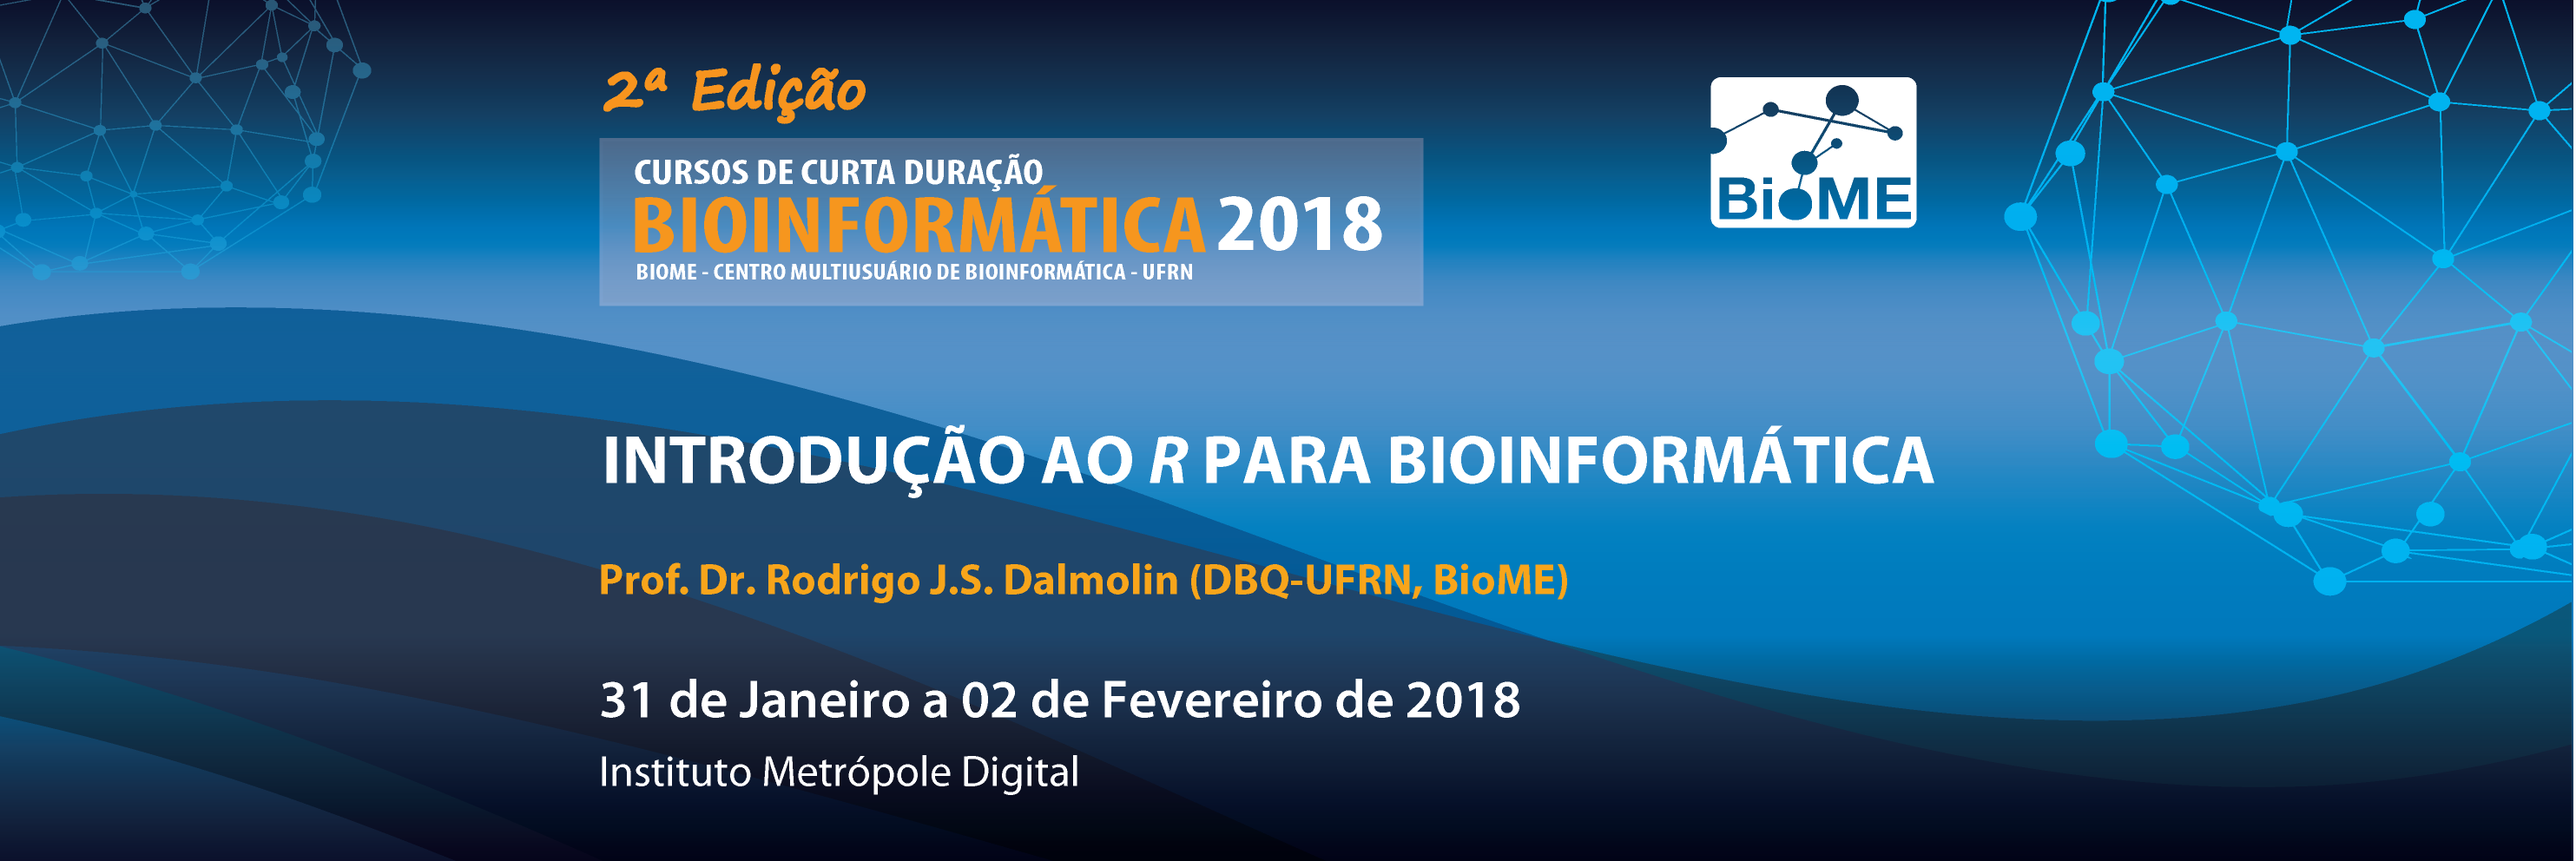
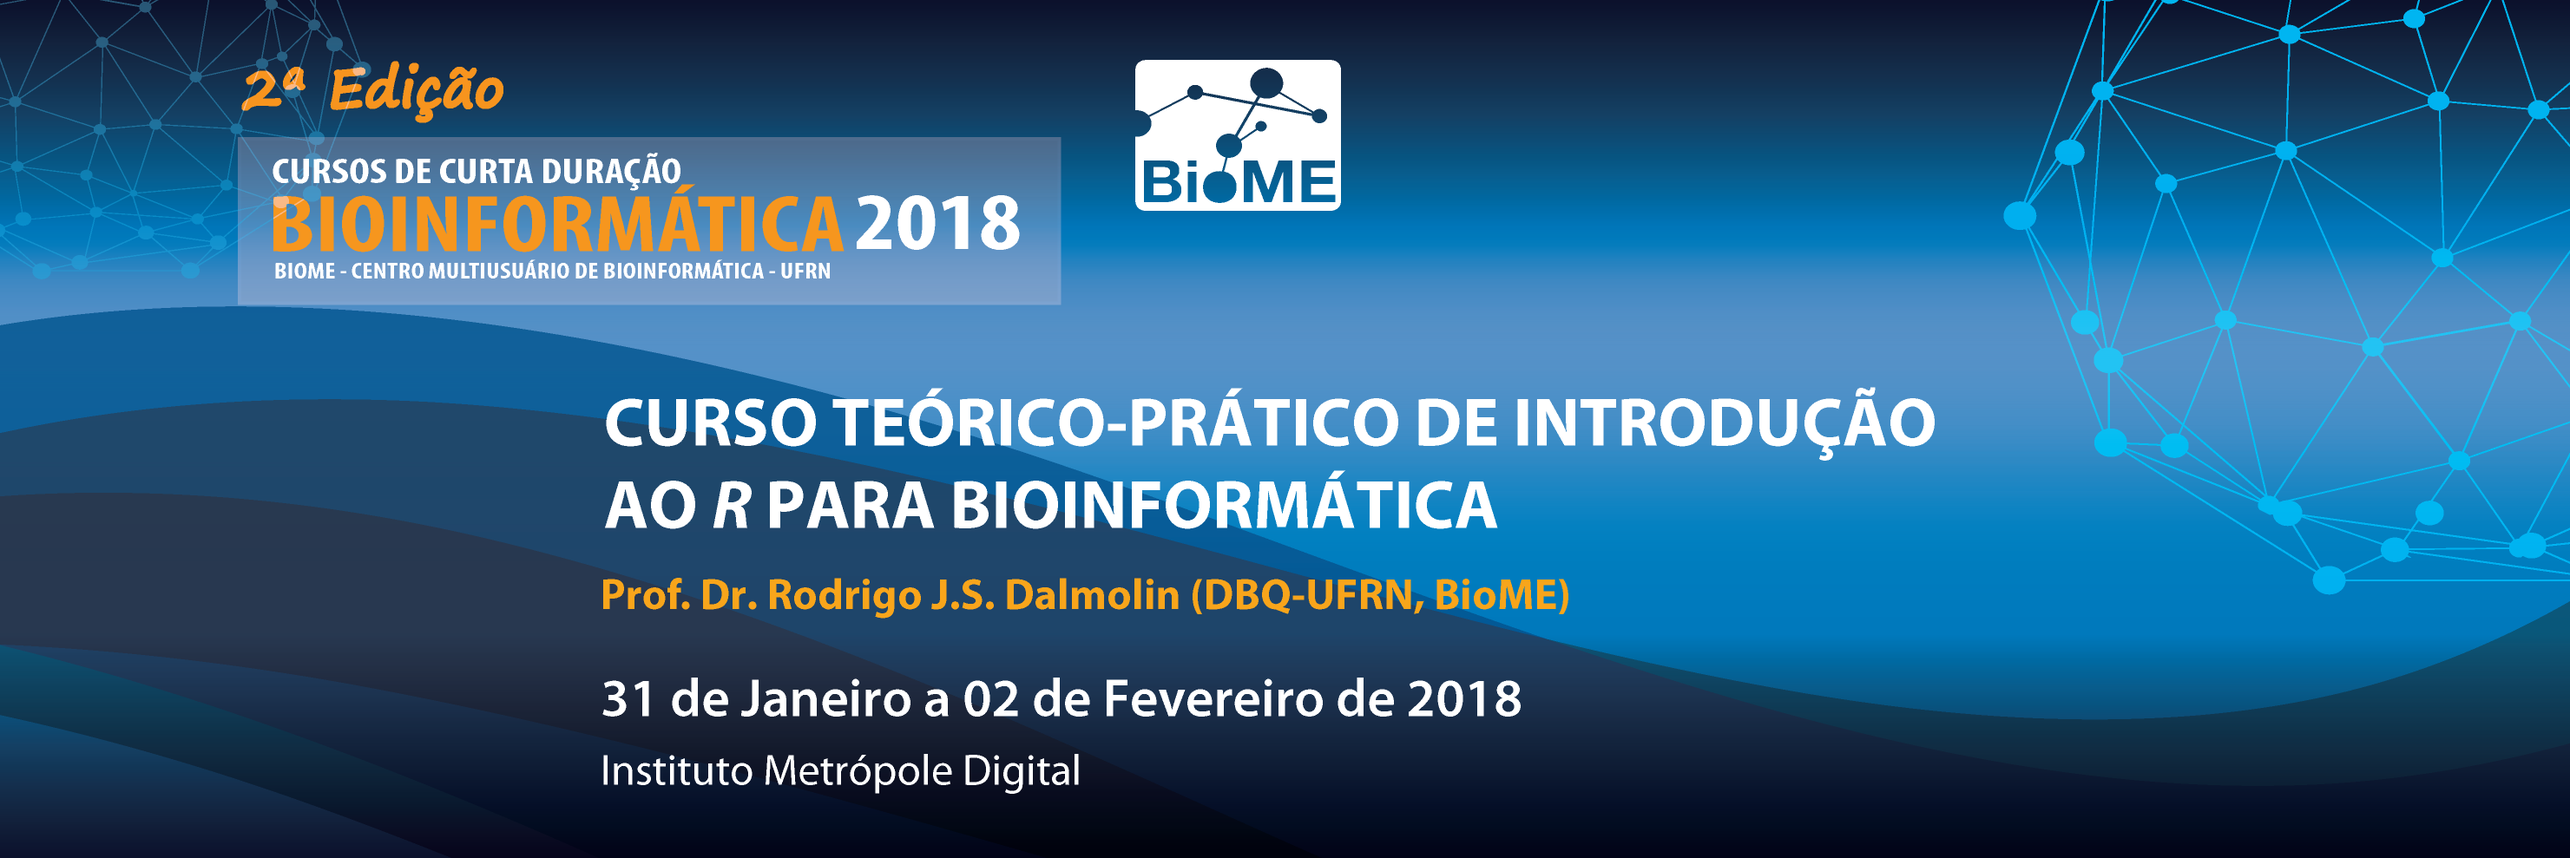
atualização dos nomes dos cursos

diff --git a/02ed/registration/index.html b/02ed/registration/index.html
@@ -45,10 +45,10 @@
             Prencha os dados requeridos abaixo e prossiga ao Pagseguro para pagamento.
             <br><br>
             Obrigada!
-        </span> 
+        </span>
     </div>
     </center>
-    
+
     <br><br><br><br>
     <div class="container col-lg-5 col-md-5 col-sm-8 col-xsm-8">
     <div id="login-container">
@@ -130,7 +130,7 @@
                 <br><br>
                 * Para obtenção do desconto de 20%, o participante deve entrar em contato e informar o código de desconto através do e-mail biome@imd.ufrn.br. Neste caso, a inscrição somente poderá ser paga através de transferência bancária para a conta corrente do Instituto de Bioinformática e Biotecnologia, cujos dados bancários serão enviados ao portador do voucher.
                 <br><br>
-                ** Participantes que receberam um voucher de 20% podem utilizá-lo para obter o desconto na inscrição de somente um dos cursos da 2a. edição dos Cursos de Curta Duração. 
+                ** Participantes que receberam um voucher de 20% podem utilizá-lo para obter o desconto na inscrição de somente um dos cursos da 2a. edição dos Cursos de Curta Duração.
                 <br><br>
                 *** Inscrições realizadas com desconto não serão contabilizadas para emissão de um novo voucher, que está condicionada ao pagamento integral do valor da inscrição de 2 ou 3 cursos da 2a. edição dos Cursos de Curta Duração. </div>
             </div>
@@ -205,19 +205,19 @@
                             <div class="form-check">
                                 <label class="form-check-label">
                                 <input id="inputBIOINFO" type="checkbox" class="form-check-input">
-                                Introdução à bioinformática
+                                Curso teórico de bioinformática básica
                                 </label>
                             </div>
                             <div class="form-check">
                                 <label class="form-check-label">
                                 <input id="inputNGS" type="checkbox" class="form-check-input">
-                                Introdução à Análise de Dados de Sequenciadores de Segunda Geração
+                                Curso teórico-prático em Introdução à análise de dados de sequenciadores de segunda geração
                                 </label>
                             </div>
                             <div class="form-check">
                                 <label class="form-check-label">
                                 <input id="inputR" type="checkbox" class="form-check-input">
-                                Introdução ao R para bioinformática
+                                Curso teórico-prático de Introdução ao R para bioinformática
                                 </label>
                             </div>
 
@@ -249,9 +249,9 @@
                         <center><br><br>
                             <div style="width: 82%; border-style: dotted; padding: 15px;">
                                 <label>Inscreva-se também nos demais cursos de curta duração oferecidos pelo BioME</label><br><br>
-                                <a style="color: #333;" href="http://bioinfo.imd.ufrn.br/cursosdcd/2018-1/bioinfo/index.html"> Introdução à bioinformática </a><br><br>
-                                <a style="color: #333;" href="http://bioinfo.imd.ufrn.br/cursosdcd/2018-1/ngs/index.html"> Introdução à Análise de Dados de Sequenciadores de Segunda Geração </a><br><br>
-                                <a style="color: #333;" href="http://bioinfo.imd.ufrn.br/cursosdcd/2018-1/r/index.html"> Introdução ao R para bioinformática </a><br><br>
+                                <a style="color: #333;" href="http://bioinfo.imd.ufrn.br/cursosdcd/2018-1/bioinfo/index.html"> Curso teórico de bioinformática básica </a><br><br>
+                                <a style="color: #333;" href="http://bioinfo.imd.ufrn.br/cursosdcd/2018-1/ngs/index.html"> Curso teórico-prático em Introdução à análise de dados de sequenciadores de segunda geração </a><br><br>
+                                <a style="color: #333;" href="http://bioinfo.imd.ufrn.br/cursosdcd/2018-1/r/index.html"> Curso teórico-prático de Introdução ao R para bioinformática </a><br><br>
                                 <p style="color: #FF6347; font-size: 17px;" >
                                     Inscritos em 2 ou 3 cursos de curta duração receberão um <br>
                                     <b>voucher de 20%</b> de desconto para ser usado em eventos futuros do BioME.
@@ -271,7 +271,7 @@
                                         <b>Nota:</b> Mesmo após realização do pagamento, seu status será atualizado em até <b>2 dias úteis</b>.
                                         </p>
                                         <!--<h4>
-                                        <b>Se você se tentou se inscrever para o 1º Curso teórico-prático em Introdução à Análise de Dados de Sequenciadores de Segunda Geração ou para o Curso Teórico-Prático de Filogenia Molecular e Análise Evolucionária de Sequências, as inscrições estão encerradas. Mas Caso deseje participar da lista de espera, enviar email para biome@imd.ufrn.br e você será notificado de sua posição por email.</b>
+                                        <b>Se você se tentou se inscrever para o 1º Curso teórico-prático em Curso teórico-prático em Introdução à análise de dados de sequenciadores de segunda geração ou para o Curso Teórico-Prático de Filogenia Molecular e Análise Evolucionária de Sequências, as inscrições estão encerradas. Mas Caso deseje participar da lista de espera, enviar email para biome@imd.ufrn.br e você será notificado de sua posição por email.</b>
                                         </h4>-->
                                 </div><br><br>
                                </center>
@@ -507,7 +507,7 @@
                     //$('#psForm #productId').val(enrollmentCourseSnapshot.val().productID);
                     $('#cart').append(
                         '<input type="hidden" name="item_id_'+itemCount+'" value="1">' +
-                        '<input type="hidden" name="item_descr_'+itemCount+'" value="2Bio: Introdução à bioinformática">' +
+                        '<input type="hidden" name="item_descr_'+itemCount+'" value="2Bio: Curso teórico de bioinformática básica">' +
                         '<input type="hidden" name="item_quant_'+itemCount+'" value="1">' +
                         '<input type="hidden" name="item_valor_'+itemCount+'" value="'+enrollmentCourseSnapshot.val().price+'">'
                     );
@@ -519,7 +519,7 @@
                     //$('#psForm #productId').val(enrollmentCourseSnapshot.val().productID);
                      $('#cart').append(
                         '<input type="hidden" name="item_id_'+itemCount+'" value="2">' +
-                        '<input type="hidden" name="item_descr_'+itemCount+'" value="2Bio: Introdução à Análise de Dados de Sequenciadores de Segunda Geração">' +
+                        '<input type="hidden" name="item_descr_'+itemCount+'" value="2Bio: Curso teórico-prático em Introdução à análise de dados de sequenciadores de segunda geração">' +
                         '<input type="hidden" name="item_quant_'+itemCount+'" value="1">' +
                         '<input type="hidden" name="item_valor_'+itemCount+'" value="'+enrollmentCourseSnapshot.val().price+'">'
                     );
@@ -531,7 +531,7 @@
                     //$('#psForm #productId').val(enrollmentCourseSnapshot.val().productID);
                      $('#cart').append(
                         '<input type="hidden" name="item_id_'+itemCount+'" value="3">' +
-                        '<input type="hidden" name="item_descr_'+itemCount+'" value="2Bio: Introdução ao R para bioinformática">' +
+                        '<input type="hidden" name="item_descr_'+itemCount+'" value="2Bio: Curso teórico-prático de Introdução ao R para bioinformática">' +
                         '<input type="hidden" name="item_quant_'+itemCount+'" value="1">' +
                         '<input type="hidden" name="item_valor_'+itemCount+'" value="'+enrollmentCourseSnapshot.val().price+'">'
                     );

diff --git a/02ed/ngs/index.html b/02ed/ngs/index.html
@@ -25,7 +25,7 @@
 
 	<!-- Document Title
 	============================================= -->
-	<title>Introdução à Análise de Dados de Sequenciadores de Segunda Geração</title>
+	<title>Curso teórico-prático em Introdução à análise de dados de sequenciadores de segunda geração</title>
 
 </head>
 
@@ -103,7 +103,7 @@
 
 							<div class="heading-block topmargin-sm"><h2>O Evento</h2></div>
 							<p style="text-align:justify">
-								O curso teórico-prático em “Introdução à Análise de Dados de Sequenciadores de Segunda Geração” de curta duração com carga horária de 20h do Centro Multiusuário de Bioinformática da UFRN acontecerá em Natal - RN, nas dependências do <a href="http://portal.imd.ufrn.br/">Instituto Metrópole Digital da Universidade Federal do Rio Grande do Norte (IMD - UFRN)</a>, de 29 a 31 de Janeiro de 2018. O curso será promovido pelo BioME, com apoio do <a href="http://bioinfo.imd.ufrn.br/">Programa de Pós Graduação em Bioinformática da UFRN</a> e do <a href="http://www.i2bio.org/">Instituto de Bioinformática e Biotecnologia (2Bio)</a>, sendo ministrado pelo Prof. Dr. Jorge Estefano Santana de Souza. <br><br>
+								O “Curso teórico-prático em Introdução à análise de dados de sequenciadores de segunda geração” de curta duração com carga horária de 20h do Centro Multiusuário de Bioinformática da UFRN acontecerá em Natal - RN, nas dependências do <a href="http://portal.imd.ufrn.br/">Instituto Metrópole Digital da Universidade Federal do Rio Grande do Norte (IMD - UFRN)</a>, de 29 a 31 de Janeiro de 2018. O curso será promovido pelo BioME, com apoio do <a href="http://bioinfo.imd.ufrn.br/">Programa de Pós Graduação em Bioinformática da UFRN</a> e do <a href="http://www.i2bio.org/">Instituto de Bioinformática e Biotecnologia (2Bio)</a>, sendo ministrado pelo Prof. Dr. Jorge Estefano Santana de Souza. <br><br>
 
 								<b>Público Alvo:</b><br>
 								Estudantes de graduação, pós-graduação e profissionais que necessitam obter treinamento básico para iniciar análises de dados de sequenciadores de segunda geração.
@@ -116,12 +116,12 @@
                         		<label>Inscreva-se também nos demais cursos de curta duração oferecidos pelo BioME</label><br><br>
                         		<a style="color: #333;" href="http://bioinfo.imd.ufrn.br/cursosdcd/2018-1/bioinfo/index.html">
 	                        		<img src="images/logos/bioinfobas.png" width="3%" height="auto">
-	                        		<span style="font-size: 1em; text-align: right;"><b>Introdução à bioinformática</b></span>
+	                        		<span style="font-size: 1em; text-align: right;"><b>Curso teórico de bioinformática básica</b></span>
                         		</a>
                         		<br><br>
                         		<a style="color: #333;" href="http://bioinfo.imd.ufrn.br/cursosdcd/2018-1/r/index.html">
 	                        		<img src="images/logos/r.png" width="3%" height="auto">
-	                        		<span style="font-size: 1em; text-align: right;"><b>Introdução ao R para bioinformática</b></span>
+	                        		<span style="font-size: 1em; text-align: right;"><b>Curso teórico-prático de Introdução ao R para bioinformática</b></span>
                         		</a>
                         <br><br>
                        		</div>

diff --git a/02ed/bioinfo/index.html b/02ed/bioinfo/index.html
@@ -25,7 +25,7 @@
 
 	<!-- Document Title
 	============================================= -->
-	<title>Introdução à bioinformática</title>
+	<title>Curso teórico de bioinformática básica</title>
 
 </head>
 
@@ -103,7 +103,7 @@
 
 							<div class="heading-block topmargin-sm"><h2>O Evento</h2></div>
 							<p style="text-align:justify">
-								O curso teórico de “Introdução à bioinformática” de curta duração com carga horária de 20h do Centro Multiusuário de Bioinformática da UFRN acontecerá em Natal - RN, nas dependências do <a href="http://portal.imd.ufrn.br/">Instituto Metrópole Digital da Universidade Federal do Rio Grande do Norte (IMD - UFRN)</a>, de 24 a 26 de Janeiro de 2018. O curso será promovido pelo BioME, com apoio do <a href="http://bioinfo.imd.ufrn.br/">Programa de Pós Graduação em Bioinformática da UFRN</a> e do <a href="http://www.i2bio.org/">Instituto de Bioinformática e Biotecnologia (2Bio)</a>, sendo ministrado pelo Prof. Dr. Sandro José de Souza. <br><br>
+								O “Curso teórico de bioinformática básica” de curta duração com carga horária de 20h do Centro Multiusuário de Bioinformática da UFRN acontecerá em Natal - RN, nas dependências do <a href="http://portal.imd.ufrn.br/">Instituto Metrópole Digital da Universidade Federal do Rio Grande do Norte (IMD - UFRN)</a>, de 24 a 26 de Janeiro de 2018. O curso será promovido pelo BioME, com apoio do <a href="http://bioinfo.imd.ufrn.br/">Programa de Pós Graduação em Bioinformática da UFRN</a> e do <a href="http://www.i2bio.org/">Instituto de Bioinformática e Biotecnologia (2Bio)</a>, sendo ministrado pelo Prof. Dr. Sandro José de Souza. <br><br>
 
 								<b>Público Alvo:</b><br>
 								Estudantes e profissionais que: <br>
@@ -121,12 +121,12 @@
                         		<label>Inscreva-se também nos demais cursos de curta duração oferecidos pelo BioME</label><br><br>
                         		<a style="color: #333;" href="http://bioinfo.imd.ufrn.br/cursosdcd/2018-1/ngs/index.html">
 	                        		<img src="images/logos/ngs.png" width="3%" height="auto">
-	                        		<span style="font-size: 1em; text-align: right;"><b>Introdução à Análise de Dados de Sequenciadores de Segunda Geração</b></span>
+	                        		<span style="font-size: 1em; text-align: right;"><b>Curso teórico-prático em Introdução à análise de dados de sequenciadores de segunda geração</b></span>
                         		</a>
                         		<br><br>
                         		<a style="color: #333;" href="http://bioinfo.imd.ufrn.br/cursosdcd/2018-1/r/index.html">
 	                        		<img src="images/logos/r.png" width="3%" height="auto">
-	                        		<span style="font-size: 1em; text-align: right;"><b>Introdução ao R para bioinformática</b></span>
+	                        		<span style="font-size: 1em; text-align: right;"><b>Curso teórico-prático de Introdução ao R para bioinformática</b></span>
                         		</a>
                         <br><br>
                        		</div>

diff --git a/02ed/r/index.html b/02ed/r/index.html
@@ -25,7 +25,7 @@
 
 	<!-- Document Title
 	============================================= -->
-	<title>Introdução ao R para bioinformática</title>
+	<title>Curso teórico-prático de Introdução ao R para bioinformática</title>
 
 </head>
 
@@ -104,7 +104,7 @@
 							<div class="heading-block topmargin-sm"><h2>O Evento</h2></div>
 							<p style="text-align:justify">
 
-								O curso teórico-prático em “Introdução ao R para bioinformática” de curta duração com carga horária de 20h do Centro Multiusuário de Bioinformática da UFRN acontecerá em Natal - RN, nas dependências do <a href="http://portal.imd.ufrn.br/">Instituto Metrópole Digital da Universidade Federal do Rio Grande do Norte (IMD - UFRN)</a>, de 29 a 31 de Janeiro de 2018. O curso será promovido pelo BioME, com apoio do <a href="http://bioinfo.imd.ufrn.br/">Programa de Pós Graduação em Bioinformática da UFRN</a> e do <a href="http://www.i2bio.org/">Instituto de Bioinformática e Biotecnologia (2Bio)</a>, sendo ministrado pelo Prof. Dr. Rodrigo Juliani Siqueira Dalmolin. <br><br>
+								O “Curso teórico-prático de Introdução ao R para bioinformática” de curta duração com carga horária de 20h do Centro Multiusuário de Bioinformática da UFRN acontecerá em Natal - RN, nas dependências do <a href="http://portal.imd.ufrn.br/">Instituto Metrópole Digital da Universidade Federal do Rio Grande do Norte (IMD - UFRN)</a>, de 29 a 31 de Janeiro de 2018. O curso será promovido pelo BioME, com apoio do <a href="http://bioinfo.imd.ufrn.br/">Programa de Pós Graduação em Bioinformática da UFRN</a> e do <a href="http://www.i2bio.org/">Instituto de Bioinformática e Biotecnologia (2Bio)</a>, sendo ministrado pelo Prof. Dr. Rodrigo Juliani Siqueira Dalmolin. <br><br>
 
 								<b>Potencialidades da linguagem:</b><br>
 								O R é a linguagem mais usada atualmente em ciências de dados, em espiacial dados biológicos, tanto na academia quanto na iniciativa privada. A disseminação da linguagem entre os cientistas de dados se deve principalmente à rápida curva de aprendizado mesmo para profissionais sem habilidades computacionais prévias. <br><br>
